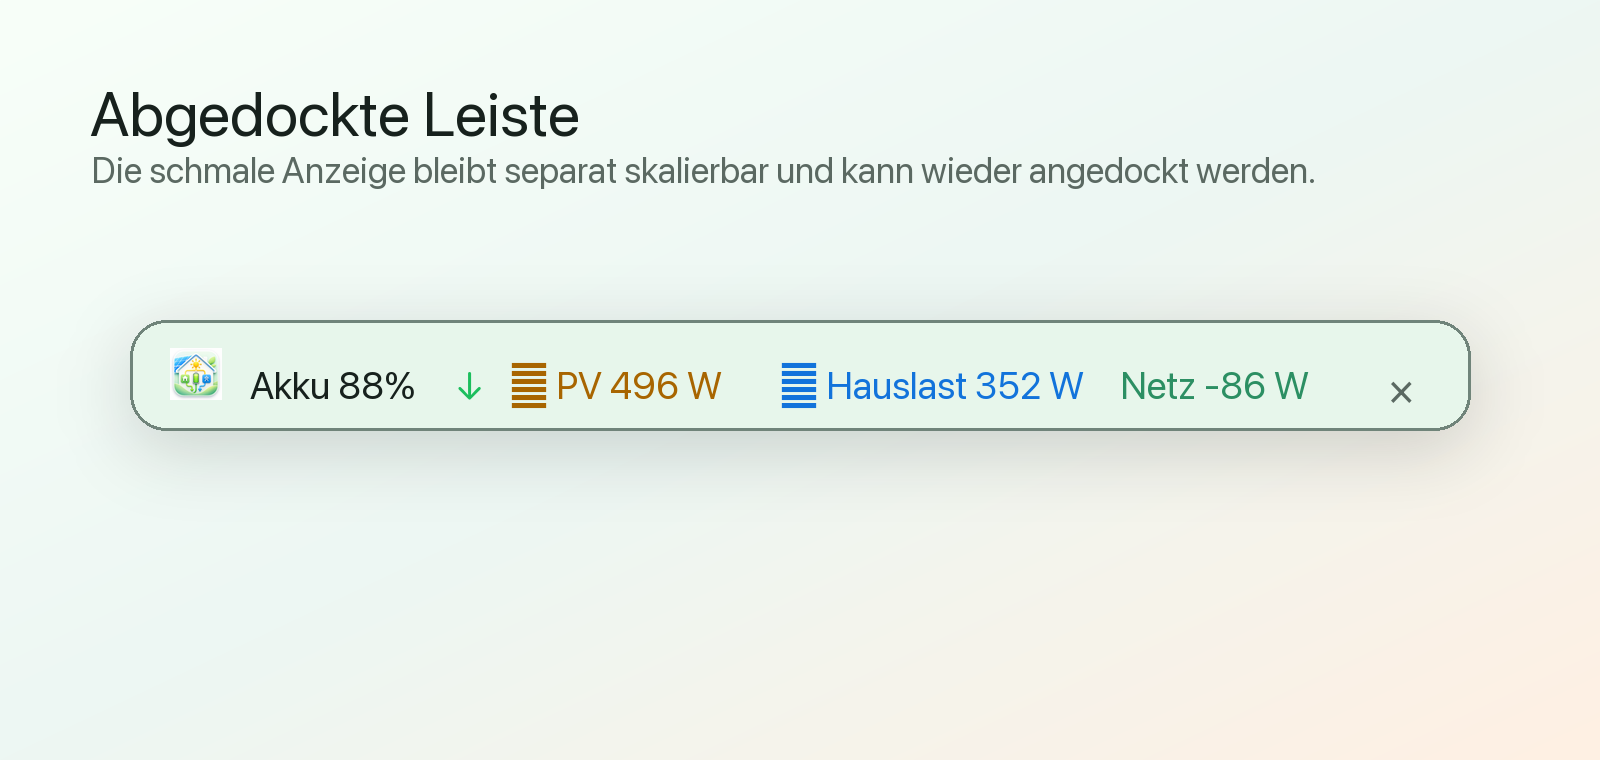
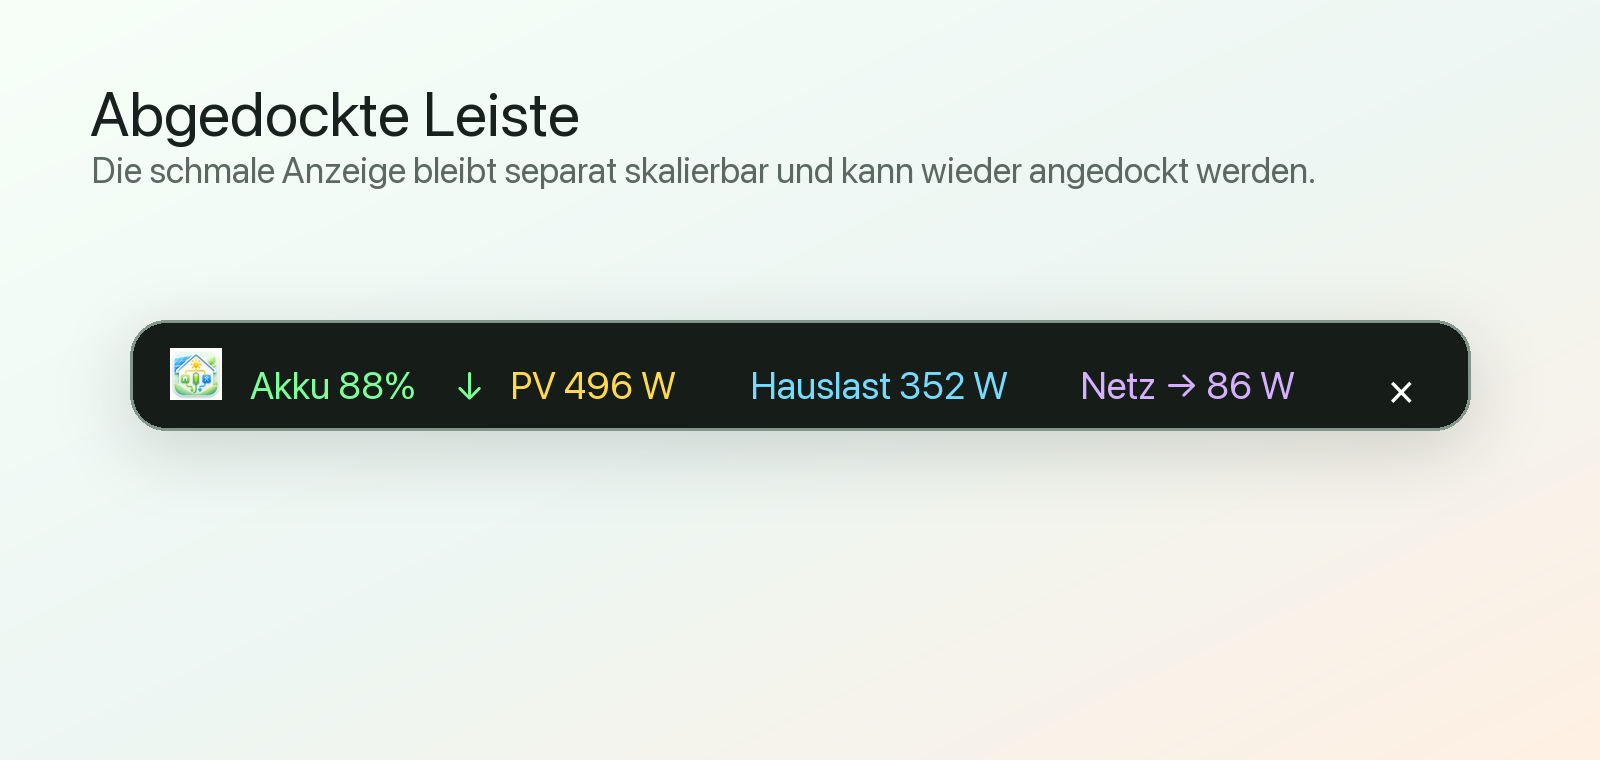
Release 0.3.17

Changed region(s): [[0.0625, 0.4237, 0.9375, 0.575]]

diff --git a/Sources/SolixBar/DetachedMenuBarWindowController.swift b/Sources/SolixBar/DetachedMenuBarWindowController.swift
@@ -346,21 +346,107 @@ private final class DetachedMenuBarView: NSView {
         let brightText = NSColor.white
         let mutedText = NSColor(calibratedWhite: 0.86, alpha: 1)
         let shadow = NSShadow()
-        shadow.shadowColor = NSColor.black.withAlphaComponent(0.72)
-        shadow.shadowBlurRadius = 2
+        shadow.shadowColor = NSColor.black.withAlphaComponent(0.92)
+        shadow.shadowBlurRadius = 3
         shadow.shadowOffset = NSSize(width: 0, height: -1)
-        result.addAttribute(.shadow, value: shadow, range: NSRange(location: 0, length: result.length))
+        let fullRange = NSRange(location: 0, length: result.length)
+        result.addAttributes(
+            [
+                .shadow: shadow,
+                .strokeColor: NSColor.black.withAlphaComponent(0.70),
+                .strokeWidth: -1.5
+            ],
+            range: fullRange
+        )
         result.enumerateAttribute(.foregroundColor, in: NSRange(location: 0, length: result.length)) { value, range, _ in
+            let substring = (result.string as NSString).substring(with: range)
             guard let color = value as? NSColor else {
                 result.addAttribute(.foregroundColor, value: brightText, range: range)
                 return
             }
             if color == NSColor.labelColor || color == NSColor.secondaryLabelColor || color.isNearlyWhite {
-                let substring = (result.string as NSString).substring(with: range)
                 result.addAttribute(.foregroundColor, value: substring.trimmingCharacters(in: .whitespaces) == "•" ? mutedText : brightText, range: range)
+            } else {
+                result.addAttribute(.foregroundColor, value: brightDetachedColor(for: color, text: substring), range: range)
             }
         }
+        makeAttachmentsReadable(in: result)
         return result
+    }
+
+    private func brightDetachedColor(for color: NSColor, text: String) -> NSColor {
+        let normalized = text.lowercased()
+        if normalized.contains("einspeis") || normalized.contains("export") {
+            return NSColor(calibratedRed: 0.84, green: 0.69, blue: 1.00, alpha: 1)
+        }
+        if normalized.contains("bezug") || normalized.contains("import") || normalized.contains("last") || normalized.contains("home") {
+            return NSColor(calibratedRed: 0.46, green: 0.86, blue: 1.00, alpha: 1)
+        }
+        if normalized.contains("entladen") || normalized.contains("discharging") {
+            return NSColor(calibratedRed: 1.00, green: 0.58, blue: 0.36, alpha: 1)
+        }
+        if normalized.contains("laden") || normalized.contains("charging") {
+            return NSColor(calibratedRed: 0.49, green: 1.00, blue: 0.60, alpha: 1)
+        }
+        if normalized.contains("erzeugt") || normalized.contains("producing") || normalized.contains("pv") || normalized.contains("solar") {
+            return NSColor(calibratedRed: 1.00, green: 0.85, blue: 0.30, alpha: 1)
+        }
+        if normalized.contains("akku"), let percent = percentage(in: normalized) {
+            if percent <= 20 {
+                return NSColor(calibratedRed: 1.00, green: 0.42, blue: 0.46, alpha: 1)
+            }
+            if percent <= 60 {
+                return NSColor(calibratedRed: 1.00, green: 0.85, blue: 0.30, alpha: 1)
+            }
+            return NSColor(calibratedRed: 0.49, green: 1.00, blue: 0.60, alpha: 1)
+        }
+
+        guard let rgb = color.usingColorSpace(.deviceRGB) else { return NSColor.white }
+        var hue: CGFloat = 0
+        var saturation: CGFloat = 0
+        var brightness: CGFloat = 0
+        var alpha: CGFloat = 0
+        rgb.getHue(&hue, saturation: &saturation, brightness: &brightness, alpha: &alpha)
+        if saturation < 0.16 { return NSColor.white }
+        switch hue {
+        case 0..<0.05, 0.95...1:
+            return NSColor(calibratedRed: 1.00, green: 0.42, blue: 0.46, alpha: 1)
+        case 0.05..<0.12:
+            return NSColor(calibratedRed: 1.00, green: 0.58, blue: 0.36, alpha: 1)
+        case 0.12..<0.20:
+            return NSColor(calibratedRed: 1.00, green: 0.85, blue: 0.30, alpha: 1)
+        case 0.20..<0.48:
+            return NSColor(calibratedRed: 0.49, green: 1.00, blue: 0.60, alpha: 1)
+        case 0.48..<0.72:
+            return NSColor(calibratedRed: 0.46, green: 0.86, blue: 1.00, alpha: 1)
+        default:
+            return NSColor(calibratedRed: 0.84, green: 0.69, blue: 1.00, alpha: 1)
+        }
+    }
+
+    private func percentage(in text: String) -> Int? {
+        let digits = text.split { !$0.isNumber }
+        return digits.compactMap { Int($0) }.first
+    }
+
+    private func makeAttachmentsReadable(in text: NSMutableAttributedString) {
+        var replacements: [(NSRange, NSTextAttachment)] = []
+        text.enumerateAttribute(.attachment, in: NSRange(location: 0, length: text.length)) { value, range, _ in
+            guard let attachment = value as? NSTextAttachment, let image = attachment.image else { return }
+            let readableImage = image.copy() as? NSImage ?? image
+            readableImage.isTemplate = false
+            readableImage.lockFocus()
+            NSColor.white.set()
+            NSRect(origin: .zero, size: readableImage.size).fill(using: .sourceAtop)
+            readableImage.unlockFocus()
+            let replacement = NSTextAttachment()
+            replacement.image = readableImage
+            replacement.bounds = attachment.bounds
+            replacements.append((range, replacement))
+        }
+        for (range, attachment) in replacements {
+            text.addAttribute(.attachment, value: attachment, range: range)
+        }
     }
 
     @objc private func close() {

diff --git a/docs/index.html b/docs/index.html
@@ -68,8 +68,8 @@
           </article>
           <article>
             <h3>Abgedockte Leiste</h3>
-            <p>Die schmale Leiste kann aus der Menueleiste geloest, wieder angedockt, skaliert und gegen versehentliches Verschieben fixiert werden.</p>
-            <p>English: The slim bar can be detached, docked again, scaled, and locked so it cannot be moved accidentally.</p>
+            <p>Die schmale Leiste kann geloest, skaliert und fixiert werden. Helle Hochkontrastfarben und Symbole bleiben auf dem dunklen Glas-Hintergrund klar lesbar.</p>
+            <p>English: The slim bar can be detached, scaled, and locked. Bright high-contrast colors and symbols remain clearly readable on its dark glass background.</p>
           </article>
           <article>
             <h3>Hell, Dunkel, Sprache</h3>
@@ -159,7 +159,7 @@
             <h3>Release laden</h3>
             <p>Aktuelle Version herunterladen und SolixBar starten.</p>
             <p>English: Download the latest release and start SolixBar.</p>
-            <code>SolixBar-0.3.16.zip</code>
+            <code>SolixBar-0.3.17.zip</code>
           </article>
           <article>
             <span>2</span>

diff --git a/scripts/render_docs_assets.py b/scripts/render_docs_assets.py
@@ -229,14 +229,14 @@ def render_detached():
     text(d, (90, 76), "Abgedockte Leiste", INK, F["h2"])
     text(d, (92, 148), "Die schmale Anzeige bleibt separat skalierbar und kann wieder angedockt werden.", MUTED, F["body"])
     shadow(base, (130, 320, 1470, 430), radius=36, blur=34)
-    rounded(d, (130, 320, 1470, 430), 36, (231, 246, 235), (112, 132, 122), 3)
+    rounded(d, (130, 320, 1470, 430), 36, (22, 29, 25), (130, 150, 140), 3)
     paste_icon(base, (170, 348, 222, 400))
-    text(d, (250, 362), "Akku 88%", INK, F["menu"])
-    text(d, (455, 362), "↓", GREEN_BRIGHT, F["menu"])
-    text(d, (510, 362), "☀ PV 496 W", (168, 101, 0), F["menu"])
-    text(d, (780, 362), "⌂ Hauslast 352 W", (18, 115, 219), F["menu"])
-    text(d, (1120, 362), "Netz -86 W", GREEN, F["menu"])
-    text(d, (1388, 362), "×", MUTED, F["h3"])
+    text(d, (250, 362), "Akku 88%", (125, 255, 153), F["menu"])
+    text(d, (455, 362), "↓", (125, 255, 153), F["menu"])
+    text(d, (510, 362), "PV 496 W", (255, 217, 77), F["menu"])
+    text(d, (750, 362), "Hauslast 352 W", (117, 219, 255), F["menu"])
+    text(d, (1080, 362), "Netz → 86 W", (214, 176, 255), F["menu"])
+    text(d, (1388, 362), "×", (255, 255, 255), F["h3"])
     save(base, "detached-bar-shot.png")
 
 

diff --git a/CHANGELOG.md b/CHANGELOG.md
@@ -2,6 +2,13 @@
 
 ## Unreleased
 
+## 0.3.17 - 2026-07-10
+
+- DE: Die abgedockte Leiste verwendet auf ihrem immer dunklen Glas-Hintergrund jetzt feste helle Hochkontrastfarben fuer Akku, Solar, Hauslast, Netzbezug, Einspeisung sowie Laden und Entladen. Ein staerkerer Schatten und eine dunkle Kontur halten die Texte auch ueber dem farbigen Verlauf lesbar.
+- EN: The detached slim bar now uses fixed bright high-contrast colors for battery, solar, home load, grid import, grid export, charging, and discharging on its always-dark glass background. A stronger shadow and dark outline keep text readable over the colored gradient.
+- DE: Eingefaerbte Symbole werden in der abgedockten Leiste hell dargestellt, damit sie nicht mehr mit dem Hintergrund verschmelzen.
+- EN: Colored symbols are rendered bright in the detached bar so they no longer blend into the background.
+
 ## 0.3.16 - 2026-07-10
 
 - DE: Die Menueleistenfarben richten sich jetzt nach der tatsaechlich von macOS aufgeloesten Menueleisten-Textfarbe statt nur nach dem allgemeinen Hell-/Dunkelmodus. Dadurch bleiben Akku-, Fluss- und Aktualisierungsfarben auch auf wallpaper-abhaengigen, transparenten und vibrierenden Menueleisten lesbar.

diff --git a/README.md b/README.md
@@ -37,7 +37,7 @@ English: Project homepage files are in [`docs/`](docs/) and can be published wit
 
 ## Version / Version
 
-Aktuelle Version / Current version: `0.3.16`
+Aktuelle Version / Current version: `0.3.17`
 
 Versionshinweise stehen in [CHANGELOG.md](CHANGELOG.md). / See [CHANGELOG.md](CHANGELOG.md) for release notes.
 